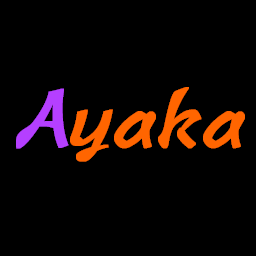
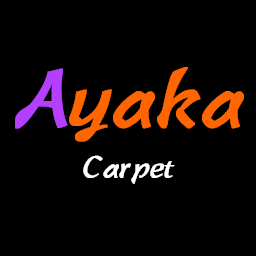
Normalizing
Normalized license

Updated icon.png and README

Changed region(s): [[0.0312, 0.25, 0.9688, 0.7188]]

diff --git a/README.md b/README.md
@@ -2,6 +2,21 @@
 
 [简体中文](README_zh.md) ｜ English
 
+Copyright (c) 2025
+
+This program is free software: you can redistribute it and/or modify
+it under the terms of the GNU General Public License as published by
+the Free Software Foundation, either version 3 of the License, or
+(at your option) any later version.
+
+This program is distributed in the hope that it will be useful,
+but WITHOUT ANY WARRANTY; without even the implied warranty of
+MERCHANTABILITY or FITNESS FOR A PARTICULAR PURPOSE.  See the
+GNU General Public License for more details.
+
+You should have received a copy of the GNU General Public License
+along with this program.  If not, see <http://www.gnu.org/licenses/>
+
 ## Conclusion
 
 A [fabric-carpet](https://github.com/gnembon/fabric-carpet/) extension designed for AyakaCraft server.

diff --git a/README_zh.md b/README_zh.md
@@ -2,6 +2,21 @@
 
 [简体中文](README_zh.md) ｜ English
 
+Copyright (c) 2025
+
+This program is free software: you can redistribute it and/or modify
+it under the terms of the GNU General Public License as published by
+the Free Software Foundation, either version 3 of the License, or
+(at your option) any later version.
+
+This program is distributed in the hope that it will be useful,
+but WITHOUT ANY WARRANTY; without even the implied warranty of
+MERCHANTABILITY or FITNESS FOR A PARTICULAR PURPOSE.  See the
+GNU General Public License for more details.
+
+You should have received a copy of the GNU General Public License
+along with this program.  If not, see <http://www.gnu.org/licenses/>
+
 ## 综述
 
 一个为 Ayakacraft 服务器设计的 [fabric-carpet](https://github.com/gnembon/fabric-carpet/) 扩展
